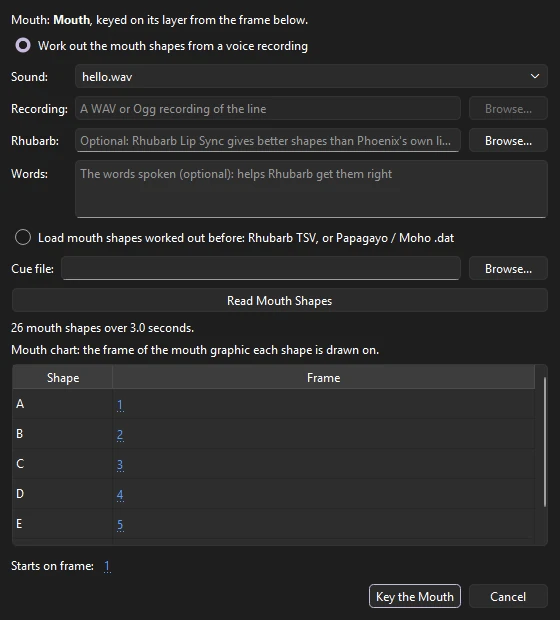
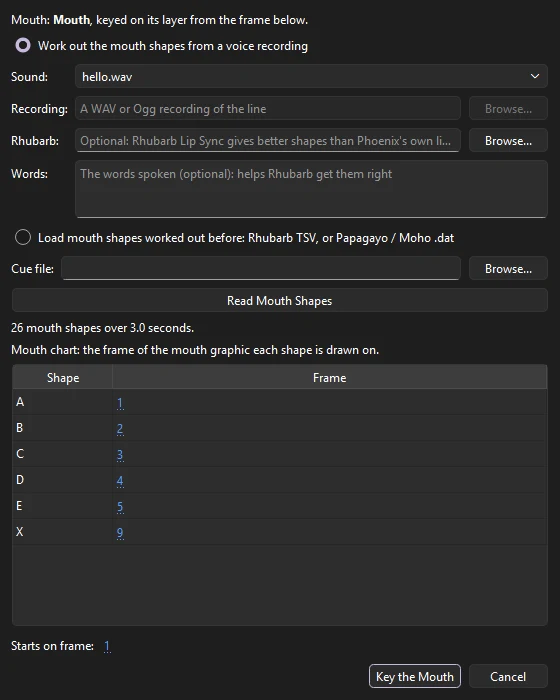
Frame Picker shows frame labels; Lip Sync chart fits nine shapes

diff --git a/docs/tutorial-lip-sync.html b/docs/tutorial-lip-sync.html
@@ -73,8 +73,8 @@
 <p>Choose <span class="menu-path">Modify &rsaquo; Lip Sync...</span>.</p><p><b>Sound</b> already shows <i>hello.wav</i>, the voice on the <i>Voice</i> layer. Click <b>Read Mouth Shapes</b>: Phoenix listens and lists the shapes it heard in the mouth chart, each on the frame labeled with its letter. Leave <b>Starts on frame</b> at 1 and click <b>Key the Mouth</b>.</p>
 
 <figure class="narrow">
-  <img src="assets/shots/lip-sync-dialog.webp" alt="The Lip Sync window: Sound set to hello.wav, empty Rhubarb and Words fields, the Read Mouth Shapes button, 26 mouth shapes over 3.0 seconds, and a mouth chart with A to E on frames 1 to 5" width="560" height="620">
-  <figcaption>The Lip Sync window after <b>Read Mouth Shapes</b>. Scroll the chart to see X on frame 9.</figcaption>
+  <img src="assets/shots/lip-sync-dialog.webp" alt="The Lip Sync window: Sound set to hello.wav, empty Rhubarb and Words fields, the Read Mouth Shapes button, 26 mouth shapes over 3.0 seconds, and a mouth chart with A to E on frames 1 to 5 and X on frame 9" width="560" height="700">
+  <figcaption>The Lip Sync window after <b>Read Mouth Shapes</b>. The chart lists the shapes the voice uses, each on the frame labeled with its letter.</figcaption>
 </figure>
 
 <h2>6. Look at the keyframes</h2>
@@ -97,9 +97,9 @@
 <h2>9. Change the shape</h2>
 
 <div class="split">
-  <figure style="margin:0"><img src="assets/shots/lip-sync-frame-picker.webp" alt="The Frame Picker panel for Mouth: Single Frame, Create Keyframe unchecked, and nine mouth pictures numbered 1 to 9" width="386" height="380"></figure>
+  <figure style="margin:0"><img src="assets/shots/lip-sync-frame-picker.webp" alt="The Frame Picker panel for Mouth: Single Frame, Create Keyframe unchecked, and nine mouth pictures captioned 1 A to 9 X" width="386" height="380"></figure>
   <div>
-    <p>Choose <span class="menu-path">Window &rsaquo; Frame Picker</span>. It shows the frames of <i>Mouth</i> as pictures. Click the second, <b>B</b>: an N is said with the teeth together, not with the lips closed.</p>
+    <p>Choose <span class="menu-path">Window &rsaquo; Frame Picker</span>. It shows the frames of <i>Mouth</i> as pictures, each with its frame number and label. Click <b>2 B</b>: an N is said with the teeth together, not with the lips closed.</p>
   </div>
 </div>
 

diff --git a/docs/symbols.html b/docs/symbols.html
@@ -203,7 +203,7 @@
 
 <h2>The Frame Picker</h2>
 
-<p>When a symbol holds a set of poses, such as mouth shapes, the Frame Picker is the fastest way to choose between them. Open it from <span class="menu-path">Window &rsaquo; Frame Picker</span>, select a graphic instance, and click a thumbnail to show that frame. The list beside <strong>Create Keyframe</strong> sets the instance's looping option. Check <strong>Create Keyframe</strong> to put each choice on a new keyframe at the playhead, which makes lip sync a matter of stepping through the timeline and clicking. To key a whole line of dialogue from a recording at once, see <a href="sound.html#lip-sync">Lip sync</a>, or try it step by step in the <a href="tutorial-lip-sync.html">Lip sync</a> tutorial.</p>
+<p>When a symbol holds a set of poses, such as mouth shapes, the Frame Picker is the fastest way to choose between them. Open it from <span class="menu-path">Window &rsaquo; Frame Picker</span>, select a graphic instance, and click a thumbnail to show that frame. Each thumbnail is captioned with its frame number and the frame's label, if it has one. The list beside <strong>Create Keyframe</strong> sets the instance's looping option. Check <strong>Create Keyframe</strong> to put each choice on a new keyframe at the playhead, which makes lip sync a matter of stepping through the timeline and clicking. To key a whole line of dialogue from a recording at once, see <a href="sound.html#lip-sync">Lip sync</a>, or try it step by step in the <a href="tutorial-lip-sync.html">Lip sync</a> tutorial.</p>
 
 <h2>Swap Symbol</h2>
 

diff --git a/docs/changelog.html b/docs/changelog.html
@@ -50,6 +50,8 @@
   <li>Lip Sync listens to a sound already in the library, starting with the one on the timeline, as well as to a recording on disk</li>
   <li>Lip Sync's mouth chart fills itself in from the mouth symbol's frame labels: label each frame A, B, C... and each shape goes to its frame</li>
   <li>Lip sync without Rhubarb opens the mouth with the first sound of a word, rather than a frame or two late</li>
+  <li>The Frame Picker captions each picture with its frame label as well as its number, such as "2 B" on a mouth chart</li>
+  <li>The Lip Sync window shows a whole mouth chart without scrolling</li>
 </ul>
 
 <h2 id="v0-18-2">0.18.2</h2>

diff --git a/src/gui/frame_picker_panel.cpp b/src/gui/frame_picker_panel.cpp
@@ -1,5 +1,8 @@
 #include "frame_picker_panel.h"
 
+#include "../data/frame.h"
+#include "../data/layer.h"
+#include "../data/symbol.h"
 #include "../data/symbol_instance.h"
 
 #include <QCheckBox>
@@ -11,6 +14,8 @@
 #include <QPixmap>
 #include <QTimer>
 #include <QVBoxLayout>
+
+#include <map>
 
 namespace {
 
@@ -93,8 +98,24 @@ void FramePickerPanel::setInstance(const fla::SymbolInstance* instance, int fram
     _title->setText(QString::fromStdString(instance->libraryItemName));
     QPixmap blank(kThumbnail);
     blank.fill(Qt::transparent);
+    // Each picture is captioned with its frame, and the label set on it if
+    // any (a mouth chart's "A", "B" ...); comments are left out.
+    std::map<int, QString> labels;
+    if (!shown->symbol->timelines.empty() && shown->symbol->timelines.front())
+        for (const fla::Layer* layer : shown->symbol->timelines.front()->layers)
+            if (layer)
+                for (const fla::Frame* frame : layer->frames)
+                    if (frame && !frame->name.empty() && frame->labelType != "comment" && !labels.count(frame->index))
+                        labels[frame->index] = QString::fromStdString(frame->name);
     for (int i = 0; i < frameCount; ++i)
-        _frames->addItem(new QListWidgetItem(QIcon(blank), QString::number(i + 1)));
+    {
+        const auto label = labels.find(i);
+        QListWidgetItem* item = new QListWidgetItem(QIcon(blank),
+            label == labels.end() ? QString::number(i + 1) : QString("%1 %2").arg(i + 1).arg(label->second));
+        if (label != labels.end())
+            item->setToolTip(QString("Frame %1, labeled %2").arg(i + 1).arg(label->second));
+        _frames->addItem(item);
+    }
     _nextToRender = 0;
     _renderTimer->start();
     refresh();

diff --git a/src/gui/lip_sync_dialog.cpp b/src/gui/lip_sync_dialog.cpp
@@ -144,7 +144,11 @@ LipSyncDialog::LipSyncDialog(const QString& mouthName, const std::map<std::strin
     _chart->setHorizontalHeaderLabels({"Shape", "Frame"});
     _chart->horizontalHeader()->setStretchLastSection(true);
     _chart->verticalHeader()->setVisible(false);
-    _chart->setMinimumHeight(160);
+    // Rows as tall as a line of text, and room for the nine shapes of the
+    // usual mouth chart (A to H and X) without scrolling.
+    const int row = fontMetrics().height() + 10;
+    _chart->verticalHeader()->setDefaultSectionSize(row);
+    _chart->setMinimumHeight(_chart->horizontalHeader()->sizeHint().height() + 9 * row + 2 * _chart->frameWidth());
     layout->addWidget(_chart, 1);
 
     QFormLayout* startForm = new QFormLayout();
@@ -190,7 +194,7 @@ LipSyncDialog::LipSyncDialog(const QString& mouthName, const std::map<std::strin
         accept();
     });
     connect(buttons, &QDialogButtonBox::rejected, this, &QDialog::reject);
-    resize(560, 620);
+    resize(560, 700);
 }
 
 bool LipSyncDialog::runRhubarb(std::string& text)

diff --git a/CHANGELOG.md b/CHANGELOG.md
@@ -17,6 +17,8 @@ What changed in each release of Phoenix, newest first.
 - Lip Sync listens to a sound already in the library, starting with the one on the timeline, as well as to a recording on disk
 - Lip Sync's mouth chart fills itself in from the mouth symbol's frame labels: label each frame A, B, C... and each shape goes to its frame
 - Lip sync without Rhubarb opens the mouth with the first sound of a word, rather than a frame or two late
+- The Frame Picker captions each picture with its frame label as well as its number, such as "2 B" on a mouth chart
+- The Lip Sync window shows a whole mouth chart without scrolling
 
 ## 0.18.2
 
